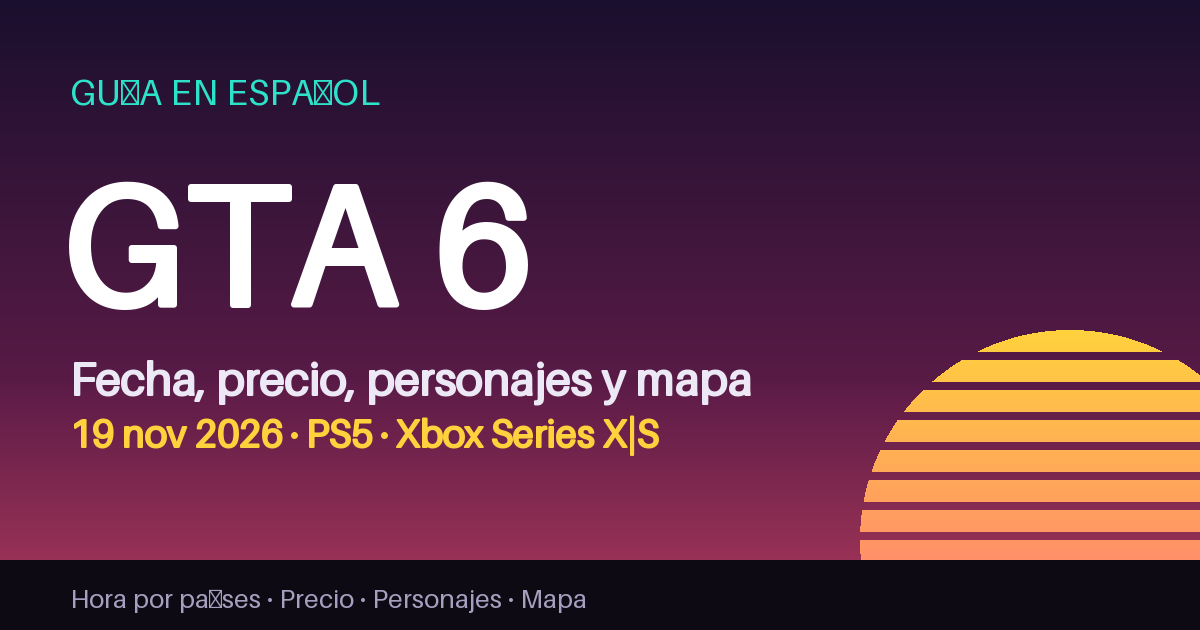
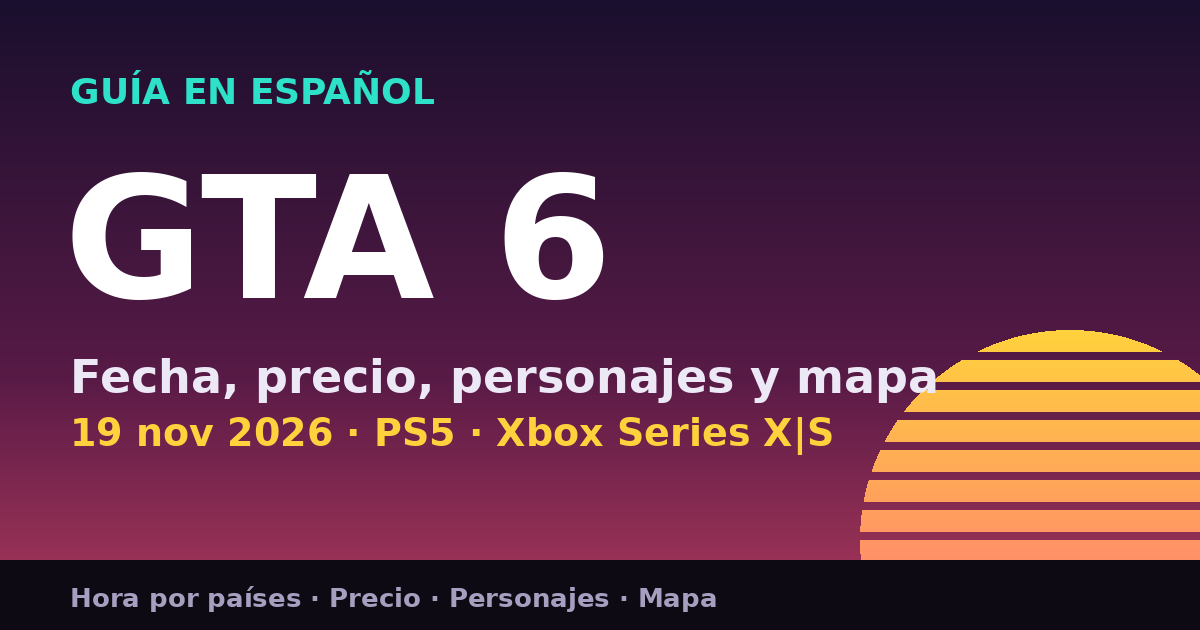
Fuente con tildes en imágenes

diff --git a/mkimg.py b/mkimg.py
@@ -1,5 +1,5 @@
 from PIL import Image, ImageDraw, ImageFont, ImageChops
-F=lambda s: ImageFont.load_default(size=s)
+F=lambda s: ImageFont.truetype("/usr/share/fonts/truetype/dejavu/DejaVuSans-Bold.ttf",s)
 W,H=1200,630
 im=Image.new("RGB",(W,H)); d=ImageDraw.Draw(im)
 top=(26,15,46); mid=(90,27,71); bot=(176,58,91)
@@ -16,12 +16,12 @@ im.paste(sun,(860,330),ImageChops.multiply(sun.getchannel('A'),mask))
 d=ImageDraw.Draw(im)
 d.rectangle([0,560,W,H],fill=(13,10,20))
 d.text((70,70),"GUÍA EN ESPAÑOL",font=F(36),fill=(45,226,201))
-d.text((64,140),"GTA 6",font=F(170),fill=(255,255,255),stroke_width=3,stroke_fill=(255,255,255))
-d.text((70,350),"Fecha, precio, personajes y mapa",font=F(46),fill=(236,232,245),stroke_width=1,stroke_fill=(236,232,245))
-d.text((70,410),"19 nov 2026 · PS5 · Xbox Series X|S",font=F(38),fill=(255,210,61),stroke_width=1,stroke_fill=(255,210,61))
+d.text((64,140),"GTA 6",font=F(170),fill=(255,255,255))
+d.text((70,350),"Fecha, precio, personajes y mapa",font=F(46),fill=(236,232,245))
+d.text((70,410),"19 nov 2026 · PS5 · Xbox Series X|S",font=F(38),fill=(255,210,61))
 d.text((70,582),"Hora por países · Precio · Personajes · Mapa",font=F(26),fill=(167,159,191))
 im.save("static/og.png",optimize=True)
 ic=Image.new("RGB",(180,180)); di=ImageDraw.Draw(ic)
 for x in range(180): di.line([(x,0),(x,180)],fill=(255,int(61+93*x/180),int(139-78*x/180)))
-di.text((90,90),"6",font=F(130),fill=(26,15,46),anchor="mm",stroke_width=4,stroke_fill=(26,15,46))
+di.text((90,90),"6",font=F(130),fill=(26,15,46),anchor="mm")
 ic.save("static/apple-touch-icon.png",optimize=True)
